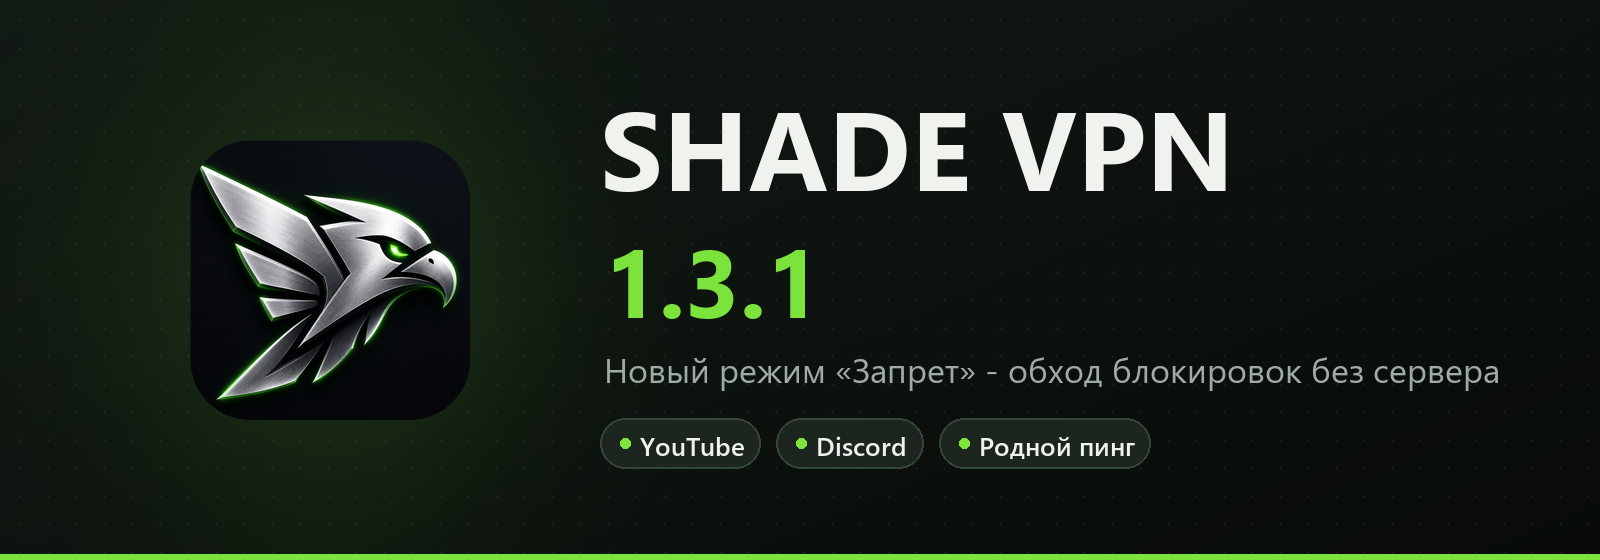
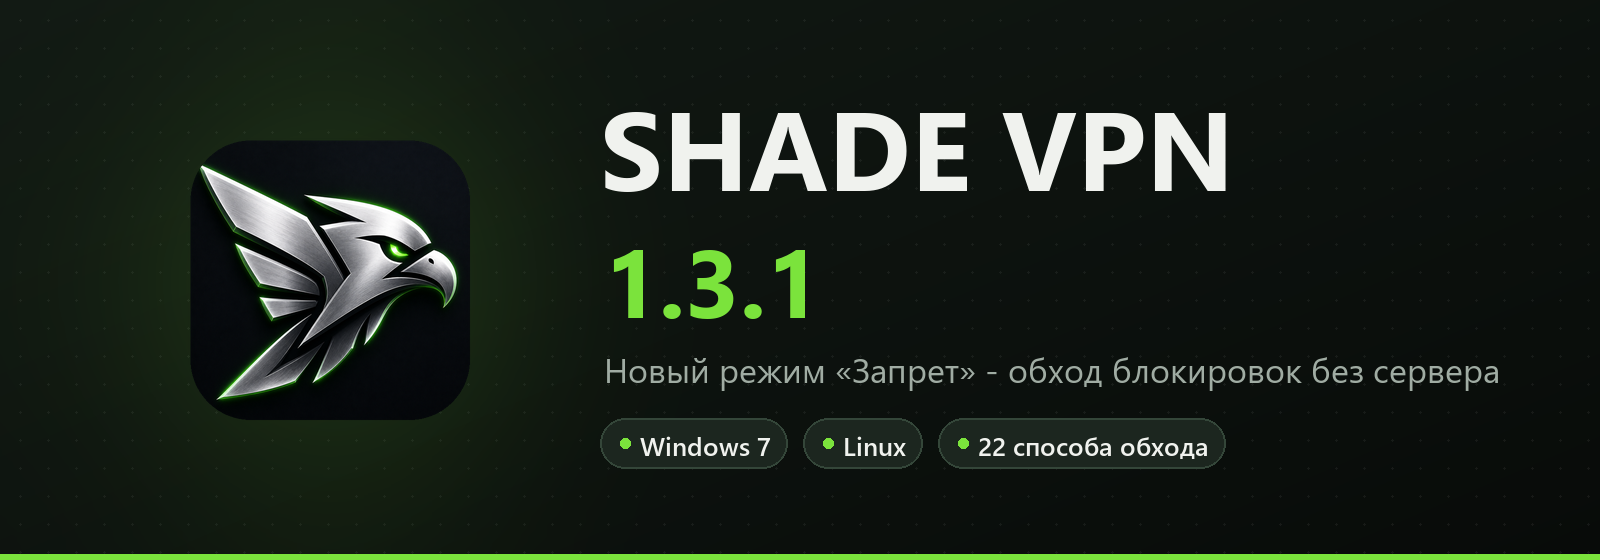
Релиз 1.3.1: баннер и кнопки без пометок, README

Changed region(s): [[0.4062, 0.7286, 0.7812, 0.85], [0.7188, 0.7286, 0.75, 0.7589]]

diff --git a/README.md b/README.md
@@ -75,13 +75,13 @@
 <details>
 <summary><b>Есть версия для Windows 7?</b></summary>
 <br>
-Есть, пока экспериментальная: <a href="https://github.com/MAGAMxx/shade-vpn-releases/releases/latest/download/ShadeVPN-Win7-Setup.exe">скачать для Windows 7</a>. Нужна Windows 7 SP1 64-бит с обновлениями. Установщик большой (около 170 МБ), потому что в нём окно приложения для старой системы. Подробности - <a href="https://github.com/MAGAMxx/shade-vpn-releases/releases/latest">в описании релиза</a>.
+Да: <a href="https://github.com/MAGAMxx/shade-vpn-releases/releases/latest/download/ShadeVPN-Win7-Setup.exe">скачать для Windows 7</a>. Нужна Windows 7 SP1 64-бит с обновлением KB2999226 (для режима TUN - ещё с поддержкой подписей SHA-2, например KB4474419). Установщик большой (около 170 МБ), потому что в нём окно приложения для старой системы.
 </details>
 
 <details>
 <summary><b>Есть версия для Linux?</b></summary>
 <br>
-Есть, пока экспериментальная: пакеты <a href="https://github.com/MAGAMxx/shade-vpn-releases/releases/latest/download/ShadeVPN-Linux.deb">.deb</a> (Ubuntu, Debian, Mint) и <a href="https://github.com/MAGAMxx/shade-vpn-releases/releases/latest/download/ShadeVPN-Linux.rpm">.rpm</a> (Fedora). Для туннеля и режима «Запрет» система один раз за сессию спросит пароль администратора. Установка и подробности - <a href="https://github.com/MAGAMxx/shade-vpn-releases/releases/latest">в описании релиза</a>.
+Да: пакеты <a href="https://github.com/MAGAMxx/shade-vpn-releases/releases/latest/download/ShadeVPN-Linux.deb">.deb</a> (Ubuntu, Debian, Mint) и <a href="https://github.com/MAGAMxx/shade-vpn-releases/releases/latest/download/ShadeVPN-Linux.rpm">.rpm</a> (Fedora). Установка: <code>sudo apt install ./ShadeVPN-Linux.deb</code> или <code>sudo dnf install ./ShadeVPN-Linux.rpm</code>. Для туннеля и режима «Запрет» система один раз за сессию спросит пароль администратора.
 </details>
 
 <details>
@@ -92,9 +92,9 @@
 
 ## 💻 Требования
 
-- Windows 10 или 11, 64-бит (или Windows 7 SP1, 64-бит, - экспериментальная версия)
+- Windows 10 или 11, 64-бит (или Windows 7 SP1, 64-бит)
 - около 100 МБ свободного места (для версии под Windows 7 - около 600 МБ)
-- Linux: x86_64 с polkit, nftables и iproute2 (ставятся вместе с пакетом) - экспериментальная версия
+- Linux: x86_64 с polkit, nftables и iproute2 (ставятся вместе с пакетом)
 
 ## 💬 Поддержка
 
